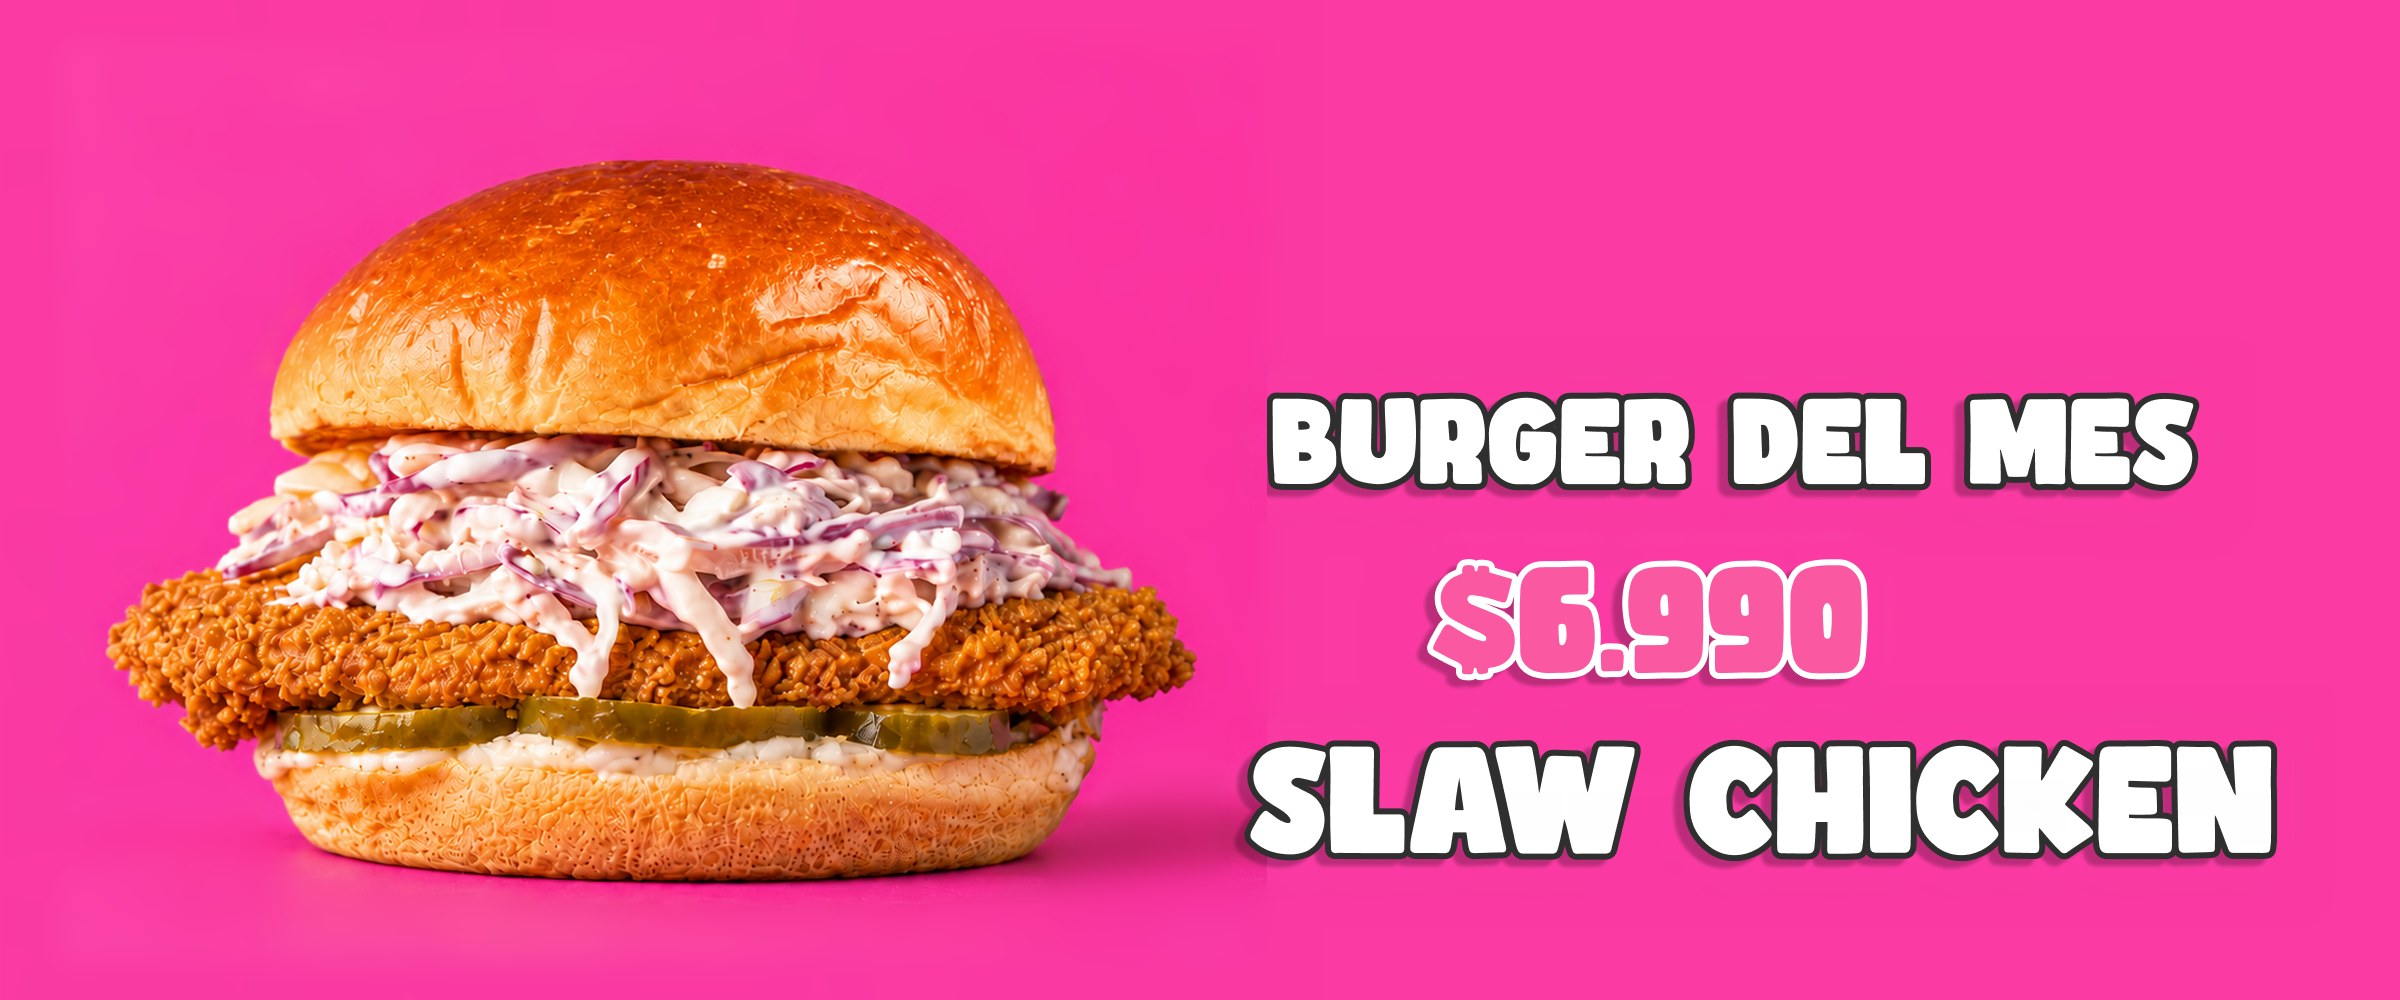
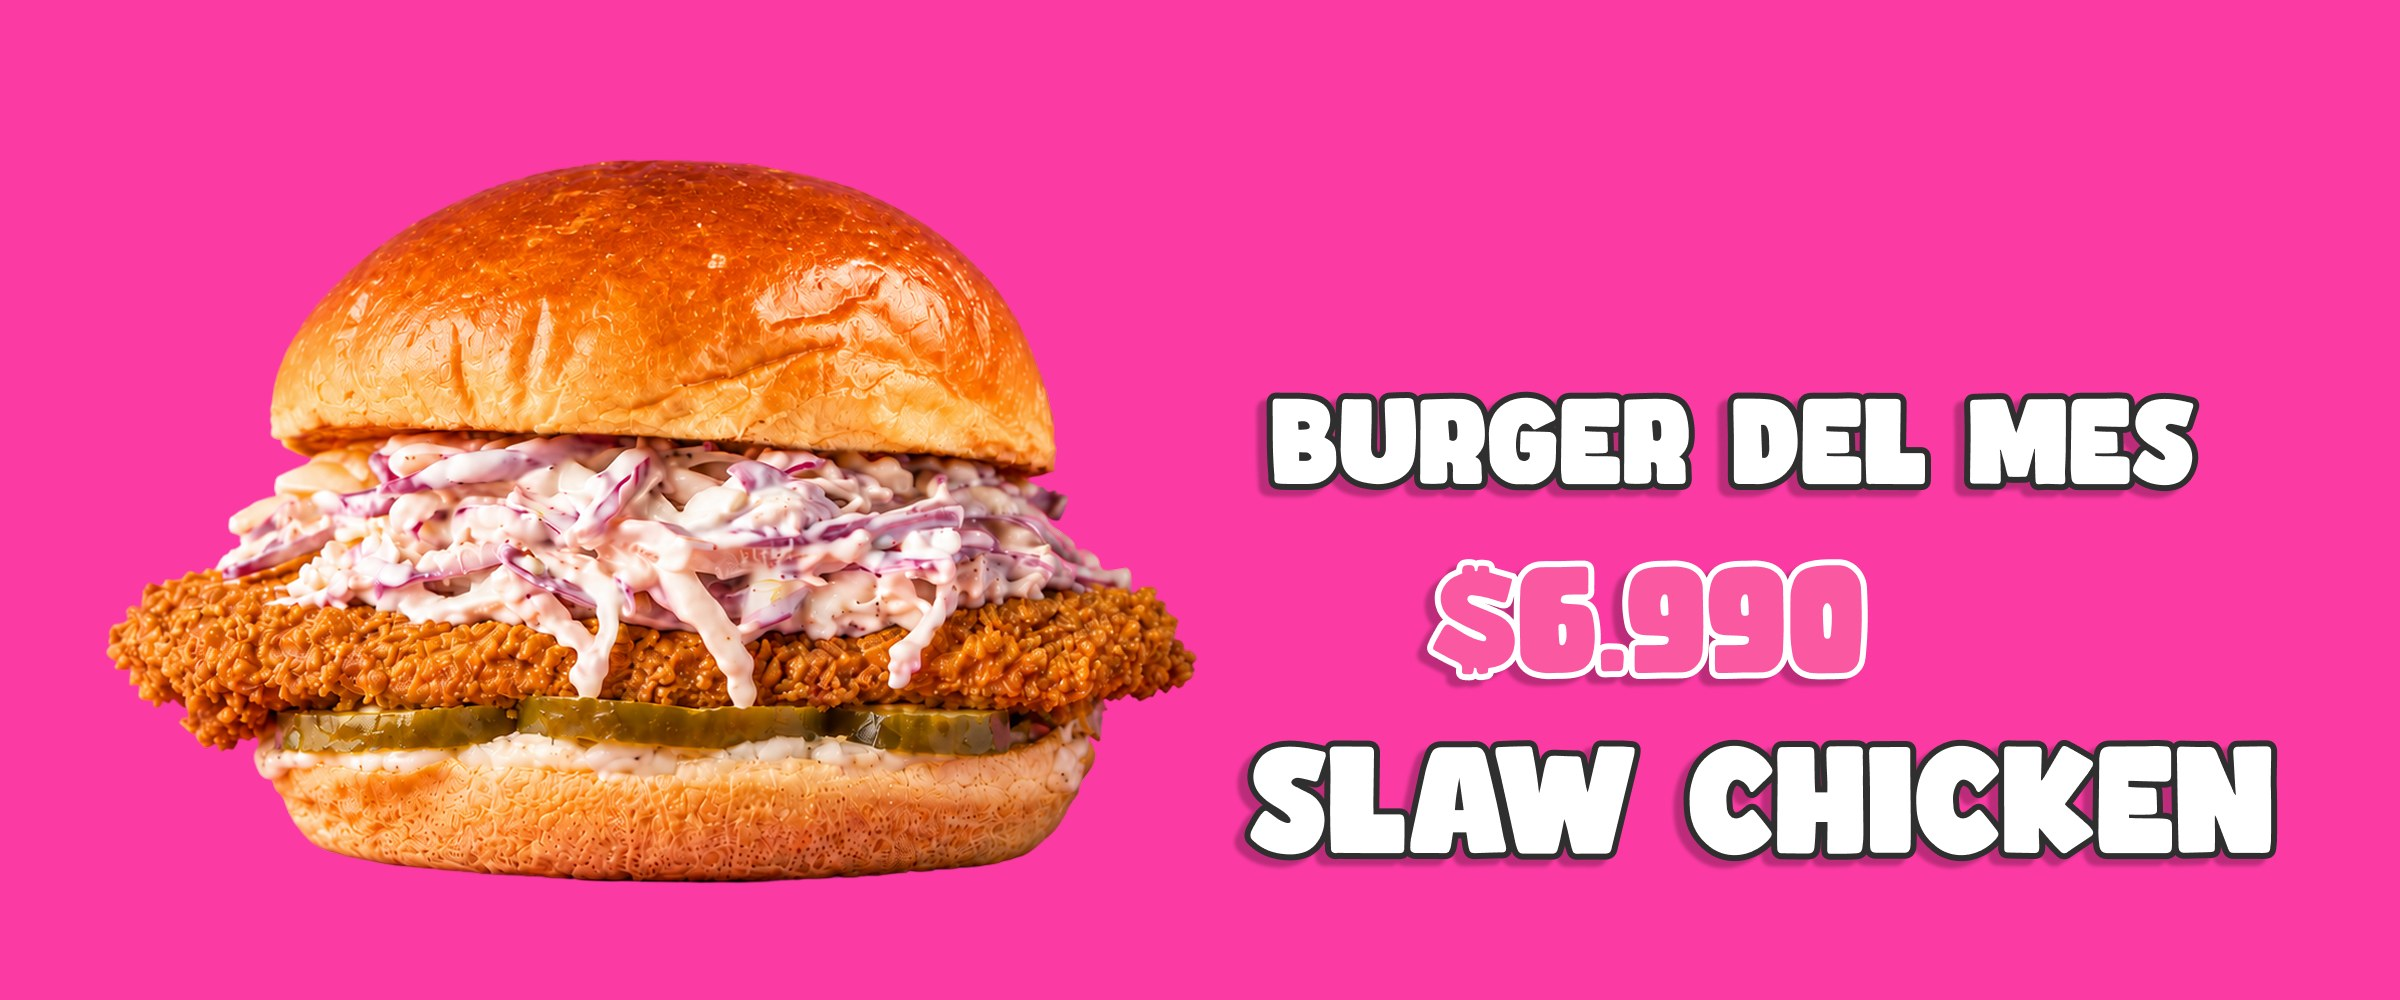
Add files via upload

Changed region(s): [[0.125, 0.775, 0.5312, 0.899], [0.5, 0.403, 0.5312, 0.496]]

diff --git a/index.html b/index.html
@@ -969,6 +969,14 @@ html[data-sl="a"] .sl{--tsc:.8}
 #sides .item .add,html[data-modo="local"] #sides .item .add,html[data-tema="claro"][data-modo="local"] #sides .item .add,#sides .item .stp{background:#33BFE4;color:#fff;box-shadow:0 8px 14px -6px rgba(35,35,35,.45),0 2px 5px rgba(35,35,35,.2)}
 #sides .item .stp button{color:#fff}
 html[data-tema="claro"] #sides .item .add,html[data-tema="claro"] #sides .item .stp,html[data-tema="claro"] #sides .item .stp button,html[data-tema="claro"][data-modo="local"] #sides .item .add{color:#FFF8EE}
+/* ---- v35 ---- */
+@media (min-width:900px){
+  html[data-sl] .sl{max-width:1080px;margin:0 auto}
+  html[data-sl] .sl-track{border-radius:20px 20px 0 0;box-shadow:0 14px 28px -10px rgba(35,35,35,.45),0 3px 8px rgba(35,35,35,.18)}
+  html[data-sl] .sl-s{aspect-ratio:2.4/1}
+  html[data-sl] .sl-dots{bottom:10px}
+  html[data-sl] .hero{padding-bottom:0}
+}
 </style>
 </head>
 <body>
